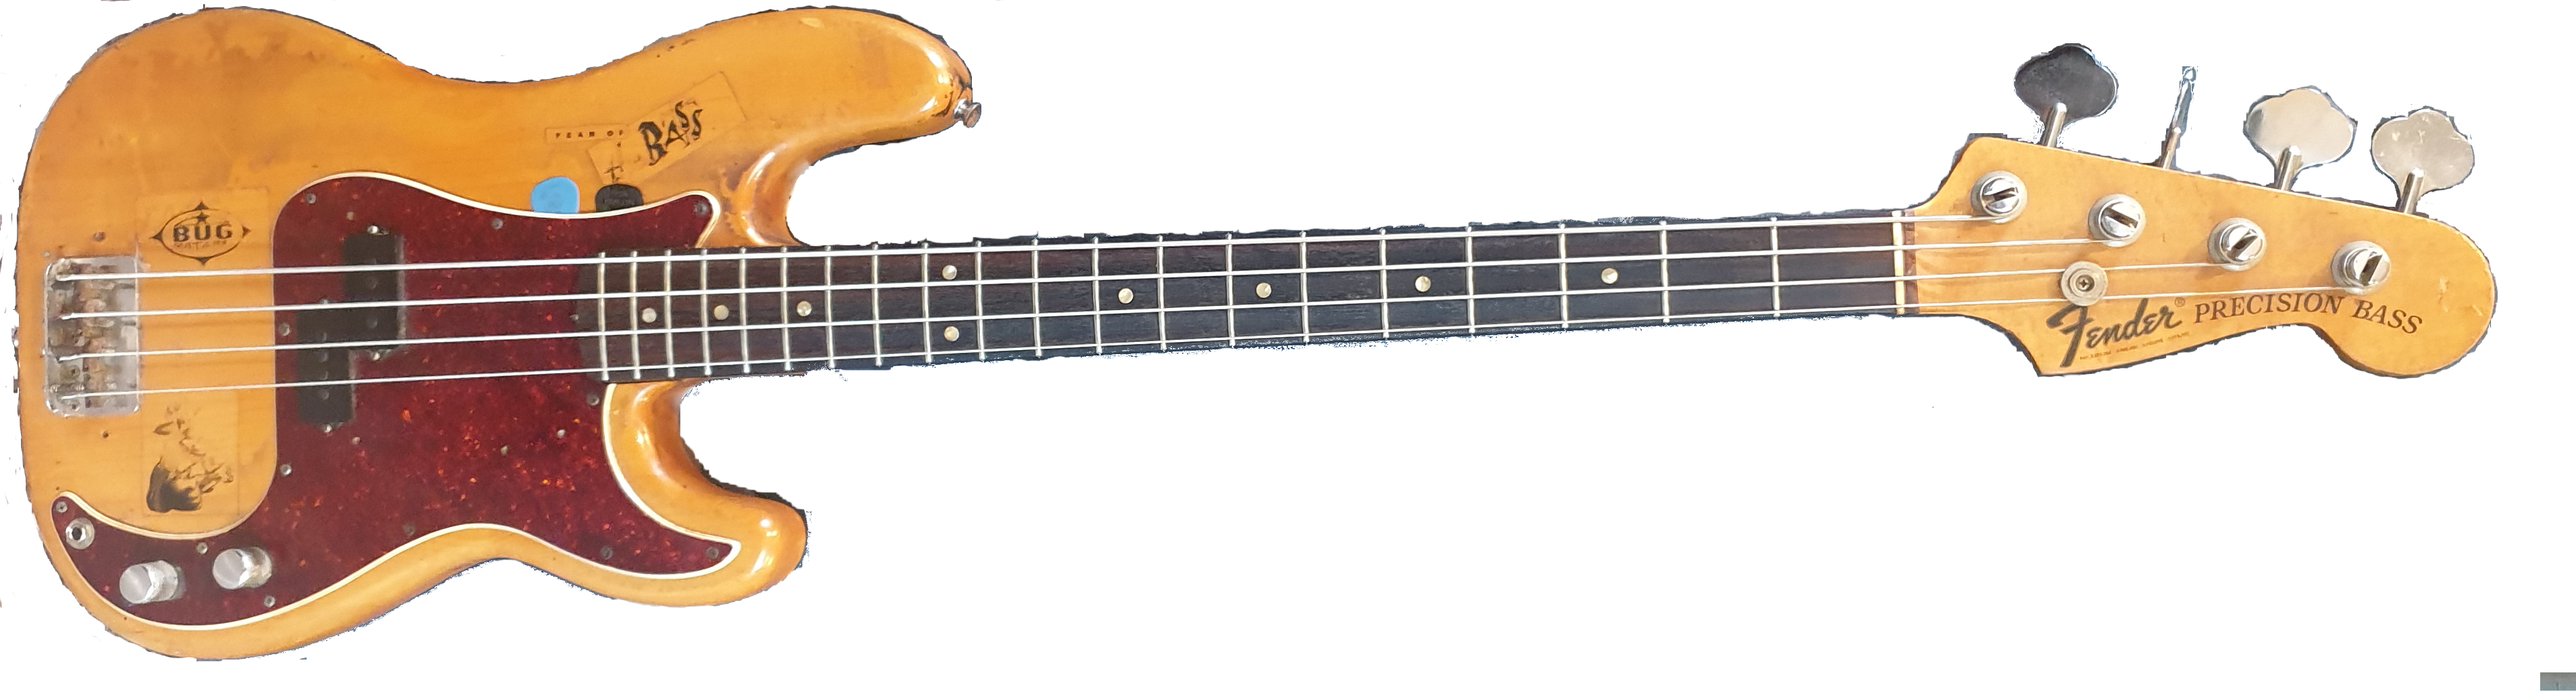
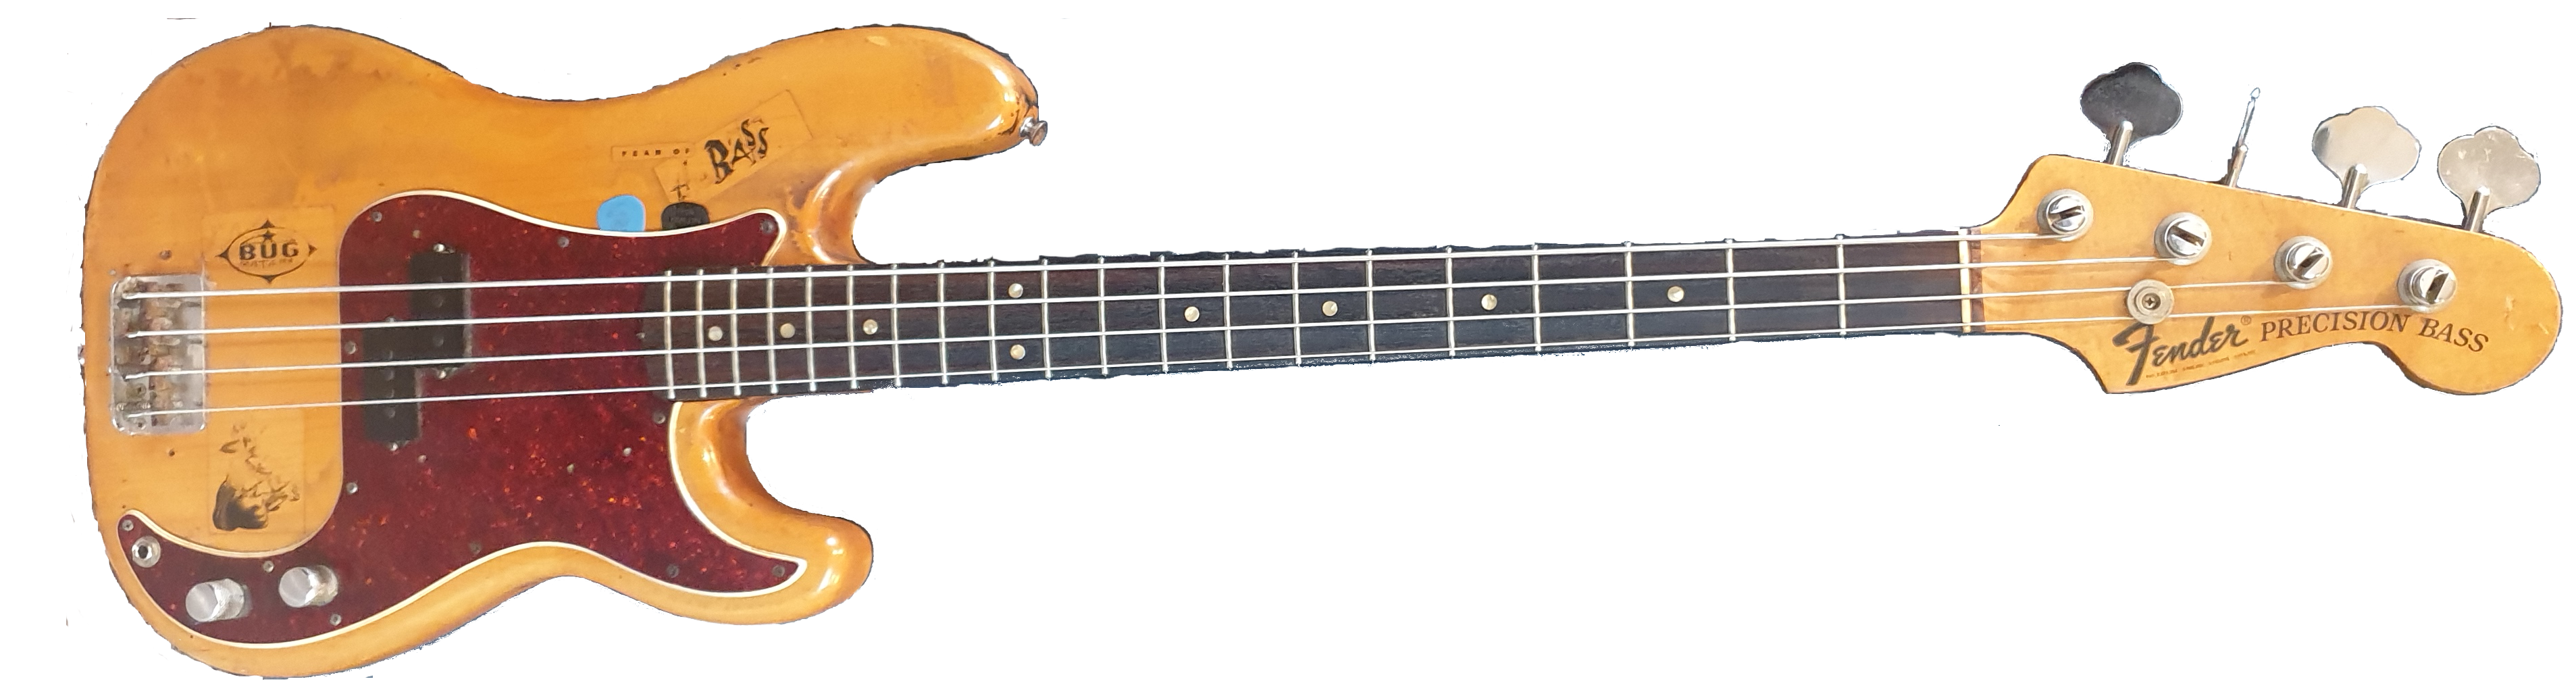
adjust PBAss

Changed region(s): [[0.0, 0.0, 0.9984, 1.0], [0.9672, 0.9688, 1.0, 1.0], [0.0936, 0.125, 0.1248, 0.1562]]

diff --git a/bass/index.html b/bass/index.html
@@ -8,7 +8,7 @@
   <link rel="preconnect" href="https://fonts.googleapis.com">
   <link rel="preconnect" href="https://fonts.gstatic.com" crossorigin>
   <link href="https://fonts.bunny.net/css?family=figtree:400,500,600&display=swap" rel="stylesheet" />
-  <link href="https://fonts.googleapis.com/css2?family=Fraunces:ital,opsz,wght@0,9..144,600;0,9..144,700&family=Space+Grotesk:wght@300;400;500;600;700&family=Inter:ital,wght@0,300;0,400;0,500;0,600;1,400&family=Space+Mono:wght@400;700&display=swap" rel="stylesheet">
+  <link href="https://fonts.googleapis.com/css2?family=Fraunces:ital,opsz,wght@0,9..144,600;0,9..144,700&family=Fredoka:wght@500;600;700&family=Space+Grotesk:wght@300;400;500;600;700&family=Inter:ital,wght@0,300;0,400;0,500;0,600;1,400&family=Space+Mono:wght@400;700&display=swap" rel="stylesheet">
   <script src="/assets/js/theme-init.js"></script>
   <style>
     *, *::before, *::after { margin: 0; padding: 0; box-sizing: border-box; }
@@ -260,6 +260,12 @@
       font-weight: 700; line-height: .9; letter-spacing: -.04em;
       margin-bottom: 1.5rem;
       display: flex; gap: 0; justify-content: center; flex-wrap: wrap;
+    }
+    html[data-theme="light"] .hero-name {
+      font-family: "Fredoka", "Figtree", ui-sans-serif, system-ui, sans-serif;
+      font-weight: 500;
+      letter-spacing: -0.02em;
+      line-height: 0.88;
     }
     .hero-name .word { display: inline-flex; }
     .hero-name .word + .word { margin-left: .28em; }